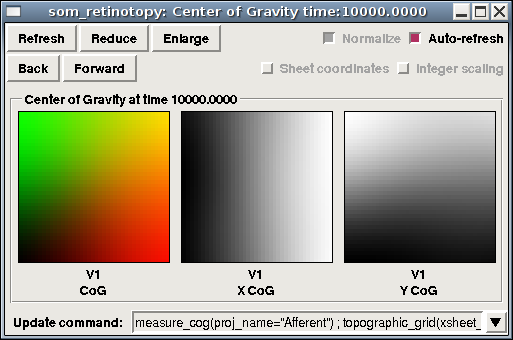
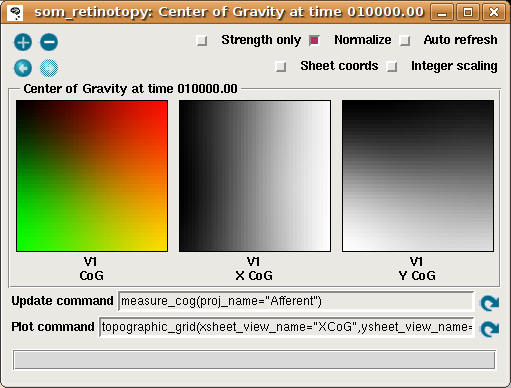
Updated SOM tutorial, mainly to get new images

diff --git a/doc/Tutorials/som_retinotopy_text.php b/doc/Tutorials/som_retinotopy_text.php
@@ -59,7 +59,7 @@ develops a mapping of the dimensions of variance in the input space.
 You should now see a window for the GUI:
 <p class='center'>
 <img src="images/topographica_console.png" alt="Console Window"
-align="middle" width="370" height="239">
+align="middle" width="426" height="149">
 </p>
   
 <p>
@@ -76,7 +76,7 @@ sheet and one cortical sheet. The architecture can be viewed in the
   is also shown below: 
 <p class='center'>
 <img src="images/som_network_diagram.png" alt="SOM network."
-align="middle" WIDTH="261" HEIGHT="318" border=2>
+align="middle" WIDTH="272" HEIGHT="265" border=2>
 </p>
 
 <P>The large circle indicates that these two Sheets are fully connected.
@@ -93,7 +93,7 @@ set of weights from a 10x10 subset of the V1 neurons:
 
 <p class='center'>
 <img src="images/som_projection_000000.png" alt="Projection window at 0"
-align="middle" WIDTH="420" HEIGHT="469">
+align="middle" WIDTH="379" HEIGHT="545">
 </p>
 
 <p> Each neuron is fully connected to the input units, and thus has a
@@ -107,7 +107,8 @@ suggested above).  Initially, the weights are uniformly random.
 <li>We can visualize the mapping from the input space into the
 cortical space by selecting <span class='t_item'>Center of Gravity</span> from
 the <span class='t_item'>Plots</span> menu on the <span
-class='w_title'>Topographica Console</span> to get several plots.
+class='w_title'>Topographica Console</span>, and pressing the Refresh
+button by the Update Command to get several plots.
 These plots show the results of computing the <i>center of gravity</i>
 (a.k.a. <i>centroid</i> or <i>center of mass</i>) of the set of input
 weights for each neuron.
@@ -118,7 +119,7 @@ mapping</span> window.  This plot shows the CoG for each V1 neuron,
 plotted on the Retina:
 
 <p class='center'>
-<IMG WIDTH="420" HEIGHT="469" SRC="images/som_grid_000000.png" align="middle" alt="CoG bitmap plots">
+<IMG WIDTH="420" HEIGHT="475" SRC="images/som_grid_000000.png" align="middle" alt="CoG bitmap plots">
 </p>
 
 <P>Each neuron is represented by a point, and a line segment is drawn
@@ -134,7 +135,7 @@ Gravity</span> plot window, although it is more difficult to interpret
 at this stage:
 
 <p class='center'>
-<IMG WIDTH="513" HEIGHT="340" SRC="images/som_cog_000000.png"  align="middle" alt="CoG bitmap plots">
+<IMG WIDTH="511" HEIGHT="388" SRC="images/som_cog_000000.png"  align="middle" alt="CoG bitmap plots">
 </p>
 
 where the V1 X CoG plot shows the X location preferred by each neuron,
@@ -163,16 +164,12 @@ represents the SOM Euclidean-distance response function.  Select
 the <span class='t_item'>Plots</span> menu to get the following plot:
 
 <p class='center'>
-<IMG WIDTH="416" HEIGHT="340" SRC="images/som_activity_000000.png" align="middle" alt="Activity at 0">
+<IMG WIDTH="379" HEIGHT="388" SRC="images/som_activity_000000.png" align="middle" alt="Activity at 0">
 </p>
 
 <p>This window shows the response for each Sheet in the model, which
 is zero at the start of the simulation (and thus both plots are
-black).  Note that these responses are best thought of as Euclidean
-proximity, not distance.  This formulation of the SOM response
-function actually subtracts the distances from the max distance, to
-ensure that the response will be larger for smaller Euclidean
-distances (as one intuitively expects for a neural response).
+black).
 
 <P><li>To run one input generation, presentation, activation, and
 learning iteration, click in the <span class='t_item'>Run
@@ -182,7 +179,7 @@ Console</span> window, make sure it says 1, and hit Go.  The
 show something like:
 
 <p class='center'>
-<IMG WIDTH="416" HEIGHT="340" SRC="images/som_activity_000001.png" align="middle" alt="Activity at 0">
+<IMG WIDTH="379" HEIGHT="388" SRC="images/som_activity_000001.png" align="middle" alt="Activity at 0">
 </p>
 
 <p>In the <span class='t_item'>Retina</span> plot, each photoreceptor
@@ -191,16 +188,26 @@ level, increasing from black to white.  The
 <code>som_retinotopy.ty</code> file specified that the input be a
 circular Gaussian at a location that is random in each iteration, and
 in this particular example the location is near the border of the
-retina.
+retina. The <span class='t_item'>V1</span> plot shows the response
+to that input, which for a SOM is initially a large Gaussian-shaped
+blob centered around the maximally responding unit.
 
-<P>The V1 feedforward activity appears random because SOM uses a
-Euclidean distance response function, and the distance from the input
-vector to a random weight vector is random.  Note that you should
-usually check the <span class='t_item'>Normalize</span> button for a
-SOM network, because the Euclidean distance is expressed in arbitrary
-units, although the plot often looks fine even without normalizing the
-minimum value to black and the maximum to white.
+<P>To see more detail about what the responses were before SOM's
+neighborhood function forced them into a Gaussian shape, you can look
+a the Projection Activity plot, which shows the feedforward activity
+in V1:
 
+<p class='center'>
+<IMG WIDTH="379" HEIGHT="418" SRC="images/som_projection_activity_000001.png" align="middle" alt="Projection Activity at 0">
+</p>
+
+<P>Here these responses are best thought of as Euclidean proximity,
+not distance.  This formulation of the SOM response function actually
+subtracts the distances from the max distance, to ensure that the
+response will be larger for smaller Euclidean distances (as one
+intuitively expects for a neural response).  The V1 feedforward
+activity appears random because the Euclidean distance from the input
+vector to the initial random weight vector is random.
 
 <P><li> If you now hit <span class='t_item'>Refresh</span> in the
 <span class='w_title'>Projection</span> window, you'll see that some
@@ -208,7 +215,7 @@ of the neurons have learned new weight patterns based on this input.
 
 <p class='center'>
 <img src="images/som_projection_000001.png" alt="Projection window at 1"
-align="middle" WIDTH="420" HEIGHT="469">
+align="middle" WIDTH="379" HEIGHT="545">
 </p>
 
 (You should probably turn on the <span
@@ -231,26 +238,25 @@ patterns, though not very cleanly yet:
 
 <p class='center'>
 <img src="images/som_projection_000005.png" alt="Projection window at 5"
-align="middle" WIDTH="420" HEIGHT="469">
+align="middle" WIDTH="379" HEIGHT="545">
 </p>
 
-Also note that the activation patterns are becoming smoother, since
-the weight vectors are now similar between neighboring neurons:
-
-<p class='center'>
-<IMG WIDTH="416" HEIGHT="340" SRC="images/som_activity_000005.png" align="middle" alt="Activity at 0">
-</p>
+If you update the Projection Activity window, you will see that the
+activation patterns are becoming smoother, since the weight vectors
+are now similar between neighboring neurons.
 
 <P><li>Continue training for a while and looking at the activation and
 weight patterns.  Instead of 1, you can change the
 <span
 class='t_item'>Run for</span> field to any number to train
-numerous iterations in a batch, e.g. 1000.  After 5000 iterations, 
-updating the <span class='w_title'>Center of Gravity</span> should
-result in something like:
+numerous iterations in a batch, e.g. 1000.  Using a large number at
+once is fine, because it is safe to interrupt training by pressing the
+Stop button, and plots can safely be refreshed even during training.
+After 5000 iterations, updating the <span class='w_title'>Center of
+Gravity</span> should result in something like:
 
 <p class='center'>
-<IMG WIDTH="513" HEIGHT="340" SRC="images/som_cog_005000.png"  align="middle" alt="CoG bitmap plots">
+<IMG WIDTH="511" HEIGHT="388" SRC="images/som_cog_005000.png"  align="middle" alt="CoG bitmap plots">
 </p>
 
 The X and Y CoG plots are now smooth, but not yet the axis-aligned gradients
@@ -258,7 +264,7 @@ The X and Y CoG plots are now smooth, but not yet the axis-aligned gradients
 have. Similarly, the topographic grid plot:
 
 <p class='center'>
-<IMG WIDTH="420" HEIGHT="469" SRC="images/som_grid_005000.png" align="middle" alt="Grid at 100">
+<IMG WIDTH="420" HEIGHT="475" SRC="images/som_grid_005000.png" align="middle" alt="Grid at 100">
 </p>
 
 shows that the network is now responding to different regions of the
@@ -267,7 +273,7 @@ properly.  Additional training up to 10000 iterations leads to a flat, square
 map:
 
 <p class='center'>
-<IMG WIDTH="420" HEIGHT="469" SRC="images/som_grid_010000.png" align="middle" alt="Grid at 10000">
+<IMG WIDTH="420" HEIGHT="475" SRC="images/som_grid_010000.png" align="middle" alt="Grid at 10000">
 </p>
 
 although the weight patterns are still quite broad and not very
@@ -275,7 +281,7 @@ selective for typical input patterns:
 
 <P class='center'>
 <img src="images/som_projection_010000.png" alt="Projection window at 10000"
-align="middle" WIDTH="420" HEIGHT="469">
+align="middle" WIDTH="379" HEIGHT="545">
 </p>
 
 
@@ -283,7 +289,7 @@ and by 40000 the map has good coverage of the available portion of the
 input space:
 
 <p class='center'>
-<IMG WIDTH="420" HEIGHT="469" SRC="images/som_grid_040000.png" align="middle" alt="Grid at 40000">
+<IMG WIDTH="420" HEIGHT="475" SRC="images/som_grid_040000.png" align="middle" alt="Grid at 40000">
 </p>
 
 <LI>The final projection window at 40000 now shows that each neuron
@@ -292,15 +298,17 @@ matching a prototypical input at one location:
 
 <p class='center'>
 <img src="images/som_projection_040000.png" alt="Projection window at 40000"
-align="middle" WIDTH="420" HEIGHT="469">
+align="middle" WIDTH="379" HEIGHT="545">
 </p>
 
-For this particular example, the topographic mapping for the x and y
-dimensions happen to be in the same orientation as the retina.  For
-example, responses to patterns in the upper left of the retina lead to
-responses in the upper left of the cortex.  There is no reason this
-should be the case in general, and the map can be flipped or rotated
-by 90 degrees along any axis with equivalent results.
+For this particular example, the topographic mapping for the x
+dimension happens to be in the same orientation as the retina, while
+the mapping for the y dimension is flipped so that the neurons along
+the top edge of V1 respond to the bottom edge of the retina.  Nothing
+in the network drives it to have any particular overall orientation or
+mapping apart from aligning to the square shape, and the map can be
+flipped or rotated by 90 degrees along any axis with equivalent
+results.
 
 <P><LI>Now, re-run the basic simulation by quitting and restarting
 Topographica.  This time, change one of the parameter values, either
